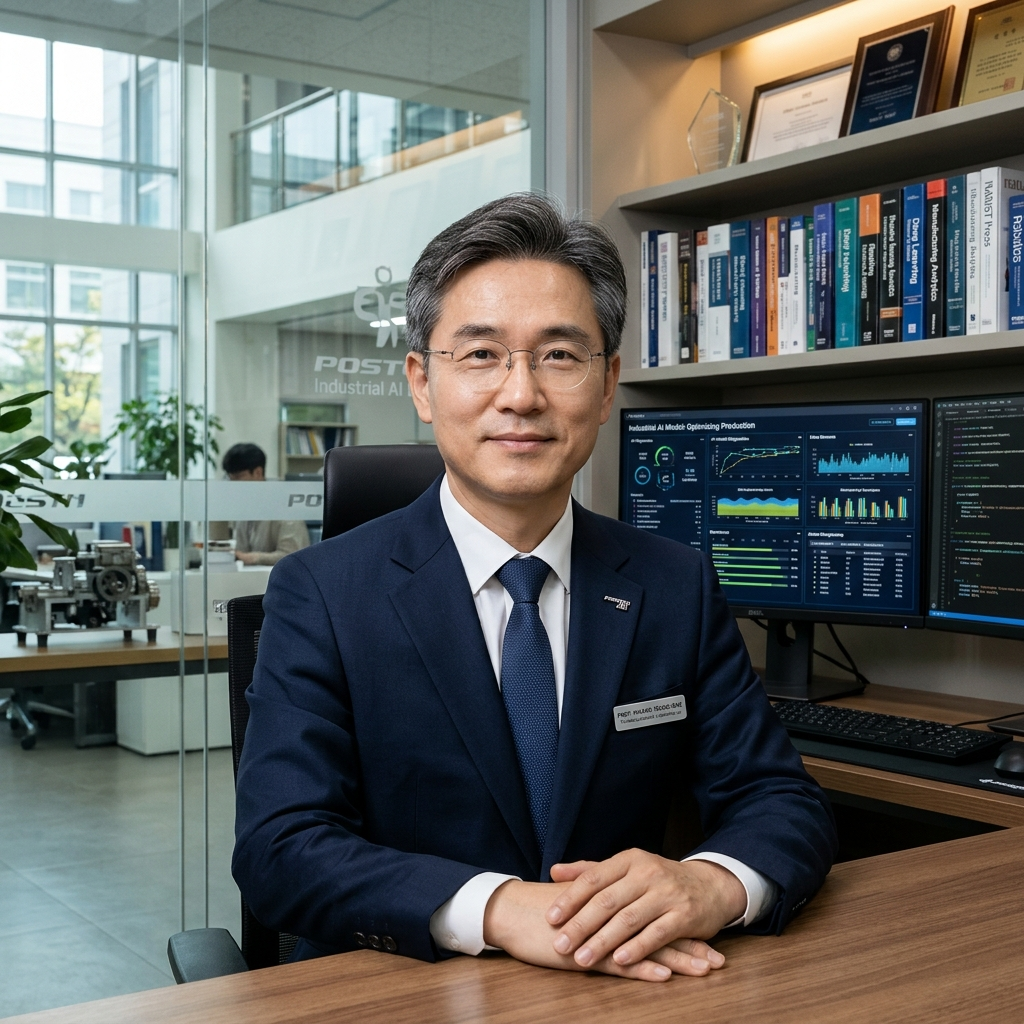
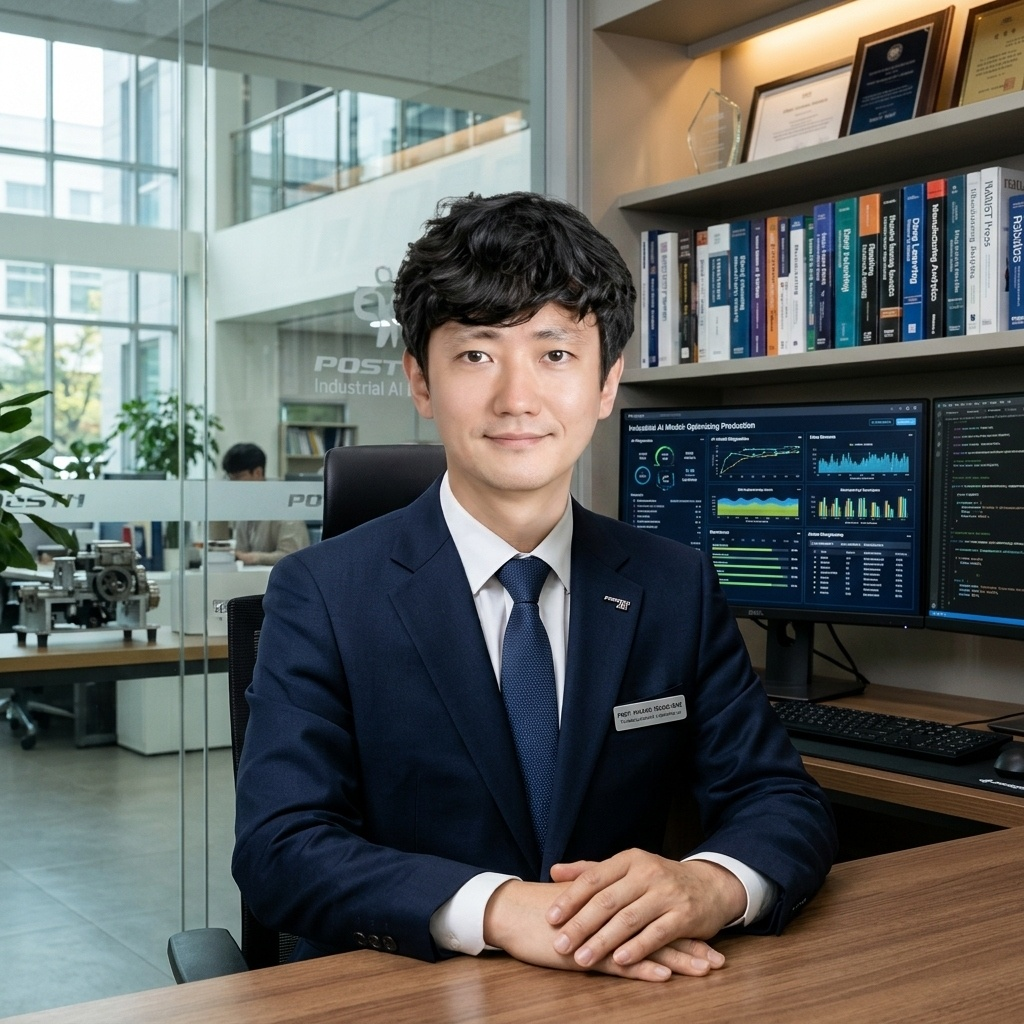
feat(team): update Prof. Young-Bae Hwang portrait with authentic face composite

Changed region(s): [[0.375, 0.1875, 0.625, 0.5312]]

diff --git a/index-v2.html b/index-v2.html
@@ -1269,7 +1269,7 @@
                             <div class="team-item style-1 effectFade fadeUp">
                                 <div class="top">
                                     <div class="image">
-                                        <img src="assets/images/team/team-3.jpg" alt="황영배 교수">
+                                        <img src="assets/images/team/team-3.jpg?v=20261106v176" alt="황영배 교수">
                                     </div>
                                     <div class="team-profile-side">
                                         <span class="team-role-pill pill-indigo"><span class="dot"></span>ACADEMIC ADVISOR</span>

diff --git a/index.html b/index.html
@@ -1358,7 +1358,7 @@
                             <div class="team-item style-1 effectFade fadeUp">
                                 <div class="top">
                                     <div class="image">
-                                        <img src="assets/images/team/team-3.jpg" alt="황영배 교수">
+                                        <img src="assets/images/team/team-3.jpg?v=20261106v176" alt="황영배 교수">
                                     </div>
                                     <div class="team-profile-side">
                                         <span class="team-role-pill pill-indigo"><span class="dot"></span>ACADEMIC ADVISOR</span>

diff --git a/about.html b/about.html
@@ -909,7 +909,7 @@
                             <div class="team-item style-1 effectFade fadeUp">
                                 <div class="top">
                                     <div class="image">
-                                        <img src="assets/images/team/team-3.jpg" alt="황영배 교수">
+                                        <img src="assets/images/team/team-3.jpg?v=20261106v176" alt="황영배 교수">
                                     </div>
                                     <div class="team-profile-side">
                                         <span class="team-role-pill pill-indigo"><span class="dot"></span>ACADEMIC ADVISOR</span>
